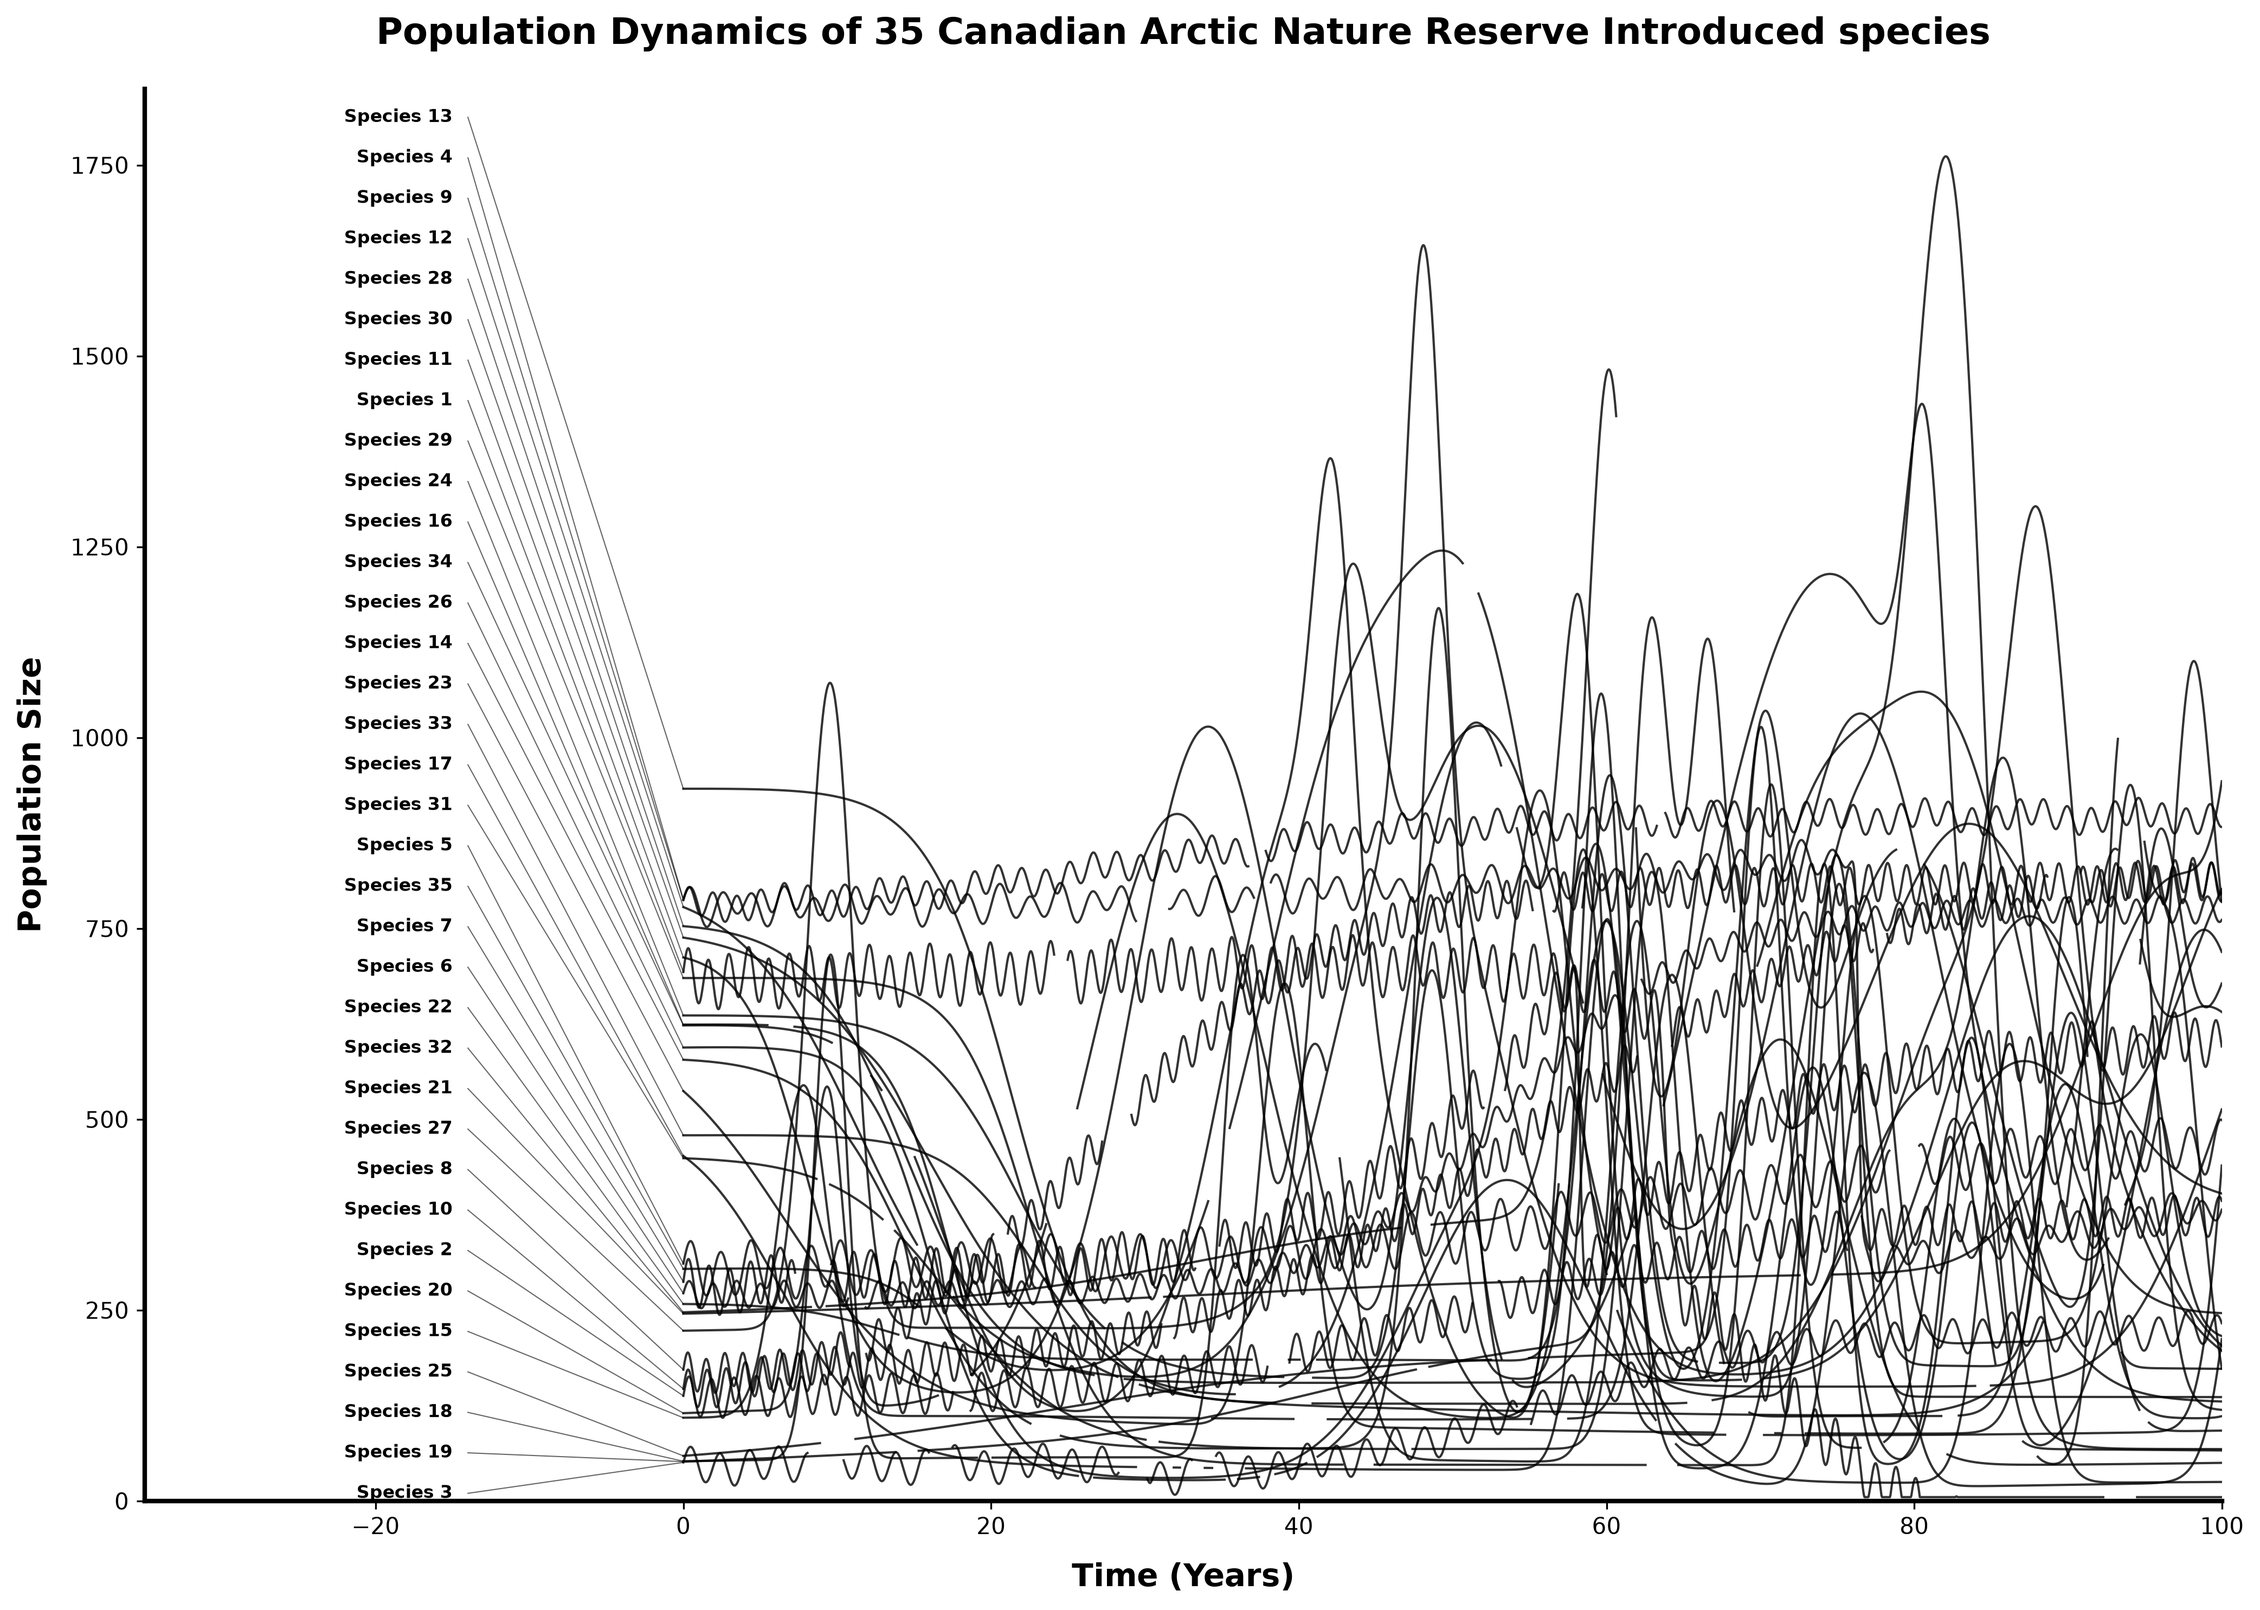
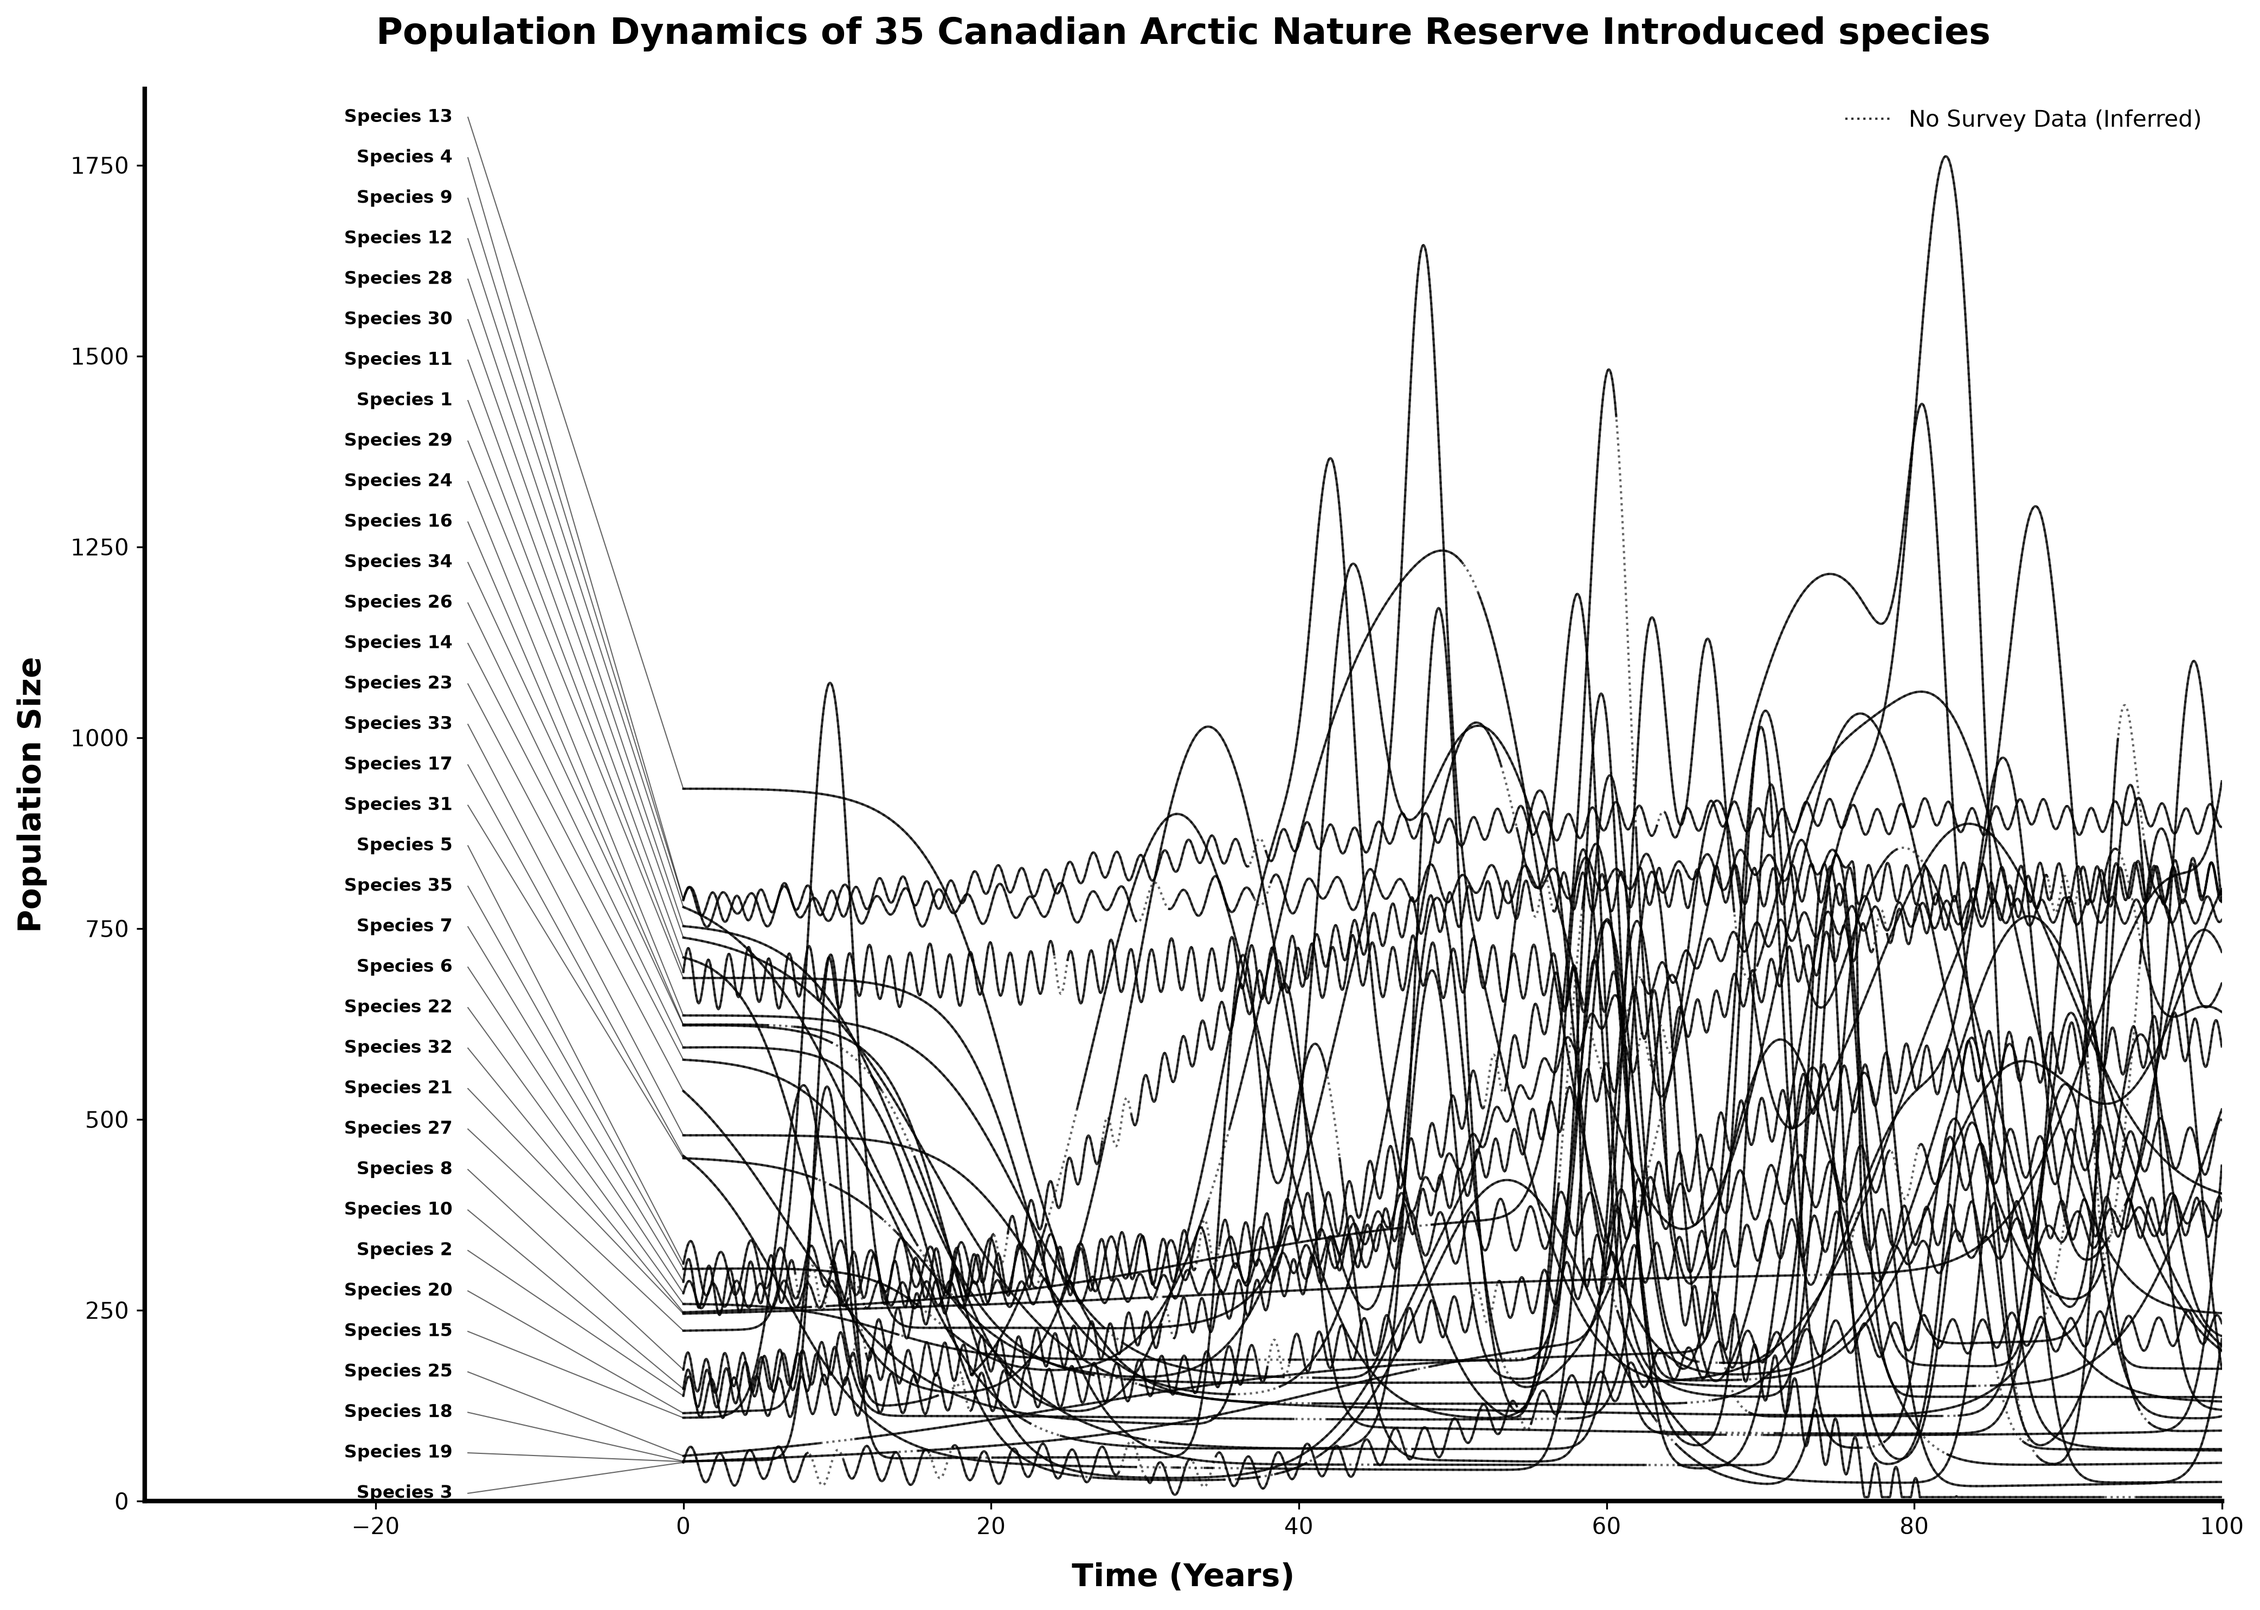
v7 fixed the gaps issue

diff --git a/generate-graph.py b/generate-graph.py
@@ -1,5 +1,6 @@
 import numpy as np
 import matplotlib.pyplot as plt
+import matplotlib.lines as mlines
 import json
 import random
 import sys
@@ -49,14 +50,13 @@ for i in range(10):
     # 1. Base logistic curve
     pop = start_pop + (end_pop - start_pop) / (1 + np.exp(-rate * (t - midpoint)))
 
-    # 2. Add VERTICAL crashes to roughly half the K-selected species to trick derivative filters
+    # 2. Add VERTICAL crashes to roughly half the K-selected species
     if random.random() > 0.5:
         crash_time = np.random.uniform(20, 80)
         crash_idx = int((crash_time / 110.0) * 3000)
         if crash_idx < 3000:
             current_level = pop[crash_idx]
             crash_depth = np.random.uniform(0.4, 0.7) * current_level
-            # HARDENING: Massive steepness ensures the drop is nearly vertical (dy/dx > 5.0)
             crash_steepness = np.random.uniform(5.0, 15.0)
 
             pop -= crash_depth / (1 + np.exp(-crash_steepness * (t - crash_time)))
@@ -64,14 +64,15 @@ for i in range(10):
             recovery_rate = np.random.uniform(0.02, 0.08)
             pop += (crash_depth * np.random.uniform(0.3, 0.8)) / (1 + np.exp(-recovery_rate * (t - (crash_time + 15))))
 
-    # 3. Add SHATTER Jitter: high frequency/amplitude seasonal wobble.
-    # Mathematically creates a local slope > 3.5 continuously, shattering the line in a slope filter.
+    # 3. Add SHATTER Jitter: high frequency seasonal wobble.
     pop += np.random.uniform(15, 35) * np.sin(t * np.random.uniform(3.0, 6.0))
     pop += np.random.randint(2, 10) * np.cos(t * np.random.uniform(0.8, 2.0))
 
     pop = np.clip(pop, 5, None)
-    pop = inject_missing_data(pop, t)
-    lines.append(pop)
+
+    pop_full = pop.copy()
+    pop_gaps = inject_missing_data(pop.copy(), t)
+    lines.append((pop_gaps, pop_full))
 
 for i in range(25):
     name = f"Species {i + 11}"
@@ -117,7 +118,7 @@ for i in range(25):
         spike_time = np.random.uniform(spike_start, 110)
         spike_height = np.random.randint(400, 900)
 
-        # HARDENING: 30% chance for a "Wide Hill" boom that stays below AI's slope threshold
+        # Wide Hill boom Trap
         if random.random() > 0.7:
             width = np.random.uniform(30, 80)
         else:
@@ -126,16 +127,17 @@ for i in range(25):
         pop += spike_height * np.exp(-((t - spike_time) ** 2) / width)
 
     pop = np.clip(pop, 5, None)
-    pop = inject_missing_data(pop, t)
-    lines.append(pop)
+
+    pop_full = pop.copy()
+    pop_gaps = inject_missing_data(pop.copy(), t)
+    lines.append((pop_gaps, pop_full))
 
 combined = list(zip(labels, lines))
 random.shuffle(combined)
 labels, lines = zip(*combined)
 
 # Find the absolute highest point across all species to dynamically set the Y-axis limit
-# We use np.nanmax because the arrays now contain NaNs
-max_pop_value = max([np.nanmax(pop) for pop in lines])
+max_pop_value = max([np.nanmax(pop_gaps) for pop_gaps, pop_full in lines])
 y_limit = max(1100.0, max_pop_value * 1.05)
 
 # ==========================================
@@ -151,15 +153,18 @@ print("Saved ground truth to ground_truth.json")
 
 fig, ax = plt.subplots(figsize=(14, 10))
 
-for pop in lines:
+for pop_gaps, pop_full in lines:
     plot_mask = t <= 100
-    ax.plot(t[plot_mask], pop[plot_mask], color='black', linewidth=1.0, solid_joinstyle='round', alpha=0.8)
+    # Plot the inferred underlying curve (dotted) everywhere
+    ax.plot(t[plot_mask], pop_full[plot_mask], color='black', linewidth=1.0, linestyle=':', alpha=0.6)
+    # Plot the solid observed data on top (this masks the dotted line where data exists)
+    ax.plot(t[plot_mask], pop_gaps[plot_mask], color='black', linewidth=1.0, solid_joinstyle='round', alpha=0.8)
 
 # Get valid starting values (t=0) despite random initial nan gaps
 start_vals = []
-for pop in lines:
-    first_valid_idx = np.where(~np.isnan(pop))[0][0]
-    start_vals.append(pop[first_valid_idx])
+for pop_gaps, pop_full in lines:
+    first_valid_idx = np.where(~np.isnan(pop_gaps))[0][0]
+    start_vals.append(pop_gaps[first_valid_idx])
 
 sorted_indices = np.argsort(start_vals)
 text_y_positions = np.linspace(10, y_limit * 0.98, len(lines))
@@ -173,6 +178,11 @@ for rank, idx in enumerate(sorted_indices):
     ax.text(text_x, text_y, label, va='center', ha='right',
             fontsize=8, fontweight='bold', fontfamily='sans-serif')
     ax.plot([text_x + 1, 0], [text_y, actual_y], color='black', linewidth=0.5, alpha=0.6)
+
+# Add Legend for the missing data
+no_data_line = mlines.Line2D([], [], color='black', linewidth=1.0, linestyle=':', alpha=0.8,
+                             label='No Survey Data (Inferred)')
+ax.legend(handles=[no_data_line], loc='upper right', fontsize=10, frameon=False)
 
 ax.set_xlim(-35, 100)
 ax.set_ylim(0, y_limit)
@@ -196,14 +206,14 @@ print("Saved clean visual to population_dynamics.png")
 # PLOTTING THE ANNOTATED GRAPH
 # ==========================================
 
-for i, pop in enumerate(lines):
+for i, (pop_gaps, pop_full) in enumerate(lines):
     label = labels[i]
     if ground_truth["classifications"][label] == "K-selected":
         plot_mask = t <= 100
-        visible_indices = np.where(plot_mask & ~np.isnan(pop))[0]
+        visible_indices = np.where(plot_mask & ~np.isnan(pop_gaps))[0]
         if len(visible_indices) > 0:
             dot_idx = random.choice(visible_indices[500:-500])
-            ax.plot(t[dot_idx], pop[dot_idx], 'ro', markersize=6, zorder=5)
+            ax.plot(t[dot_idx], pop_gaps[dot_idx], 'ro', markersize=6, zorder=5)
 
 plt.savefig("population_dynamics_annotated.png", dpi=300, bbox_inches='tight')
 print("Saved annotated visual to population_dynamics_annotated.png")
